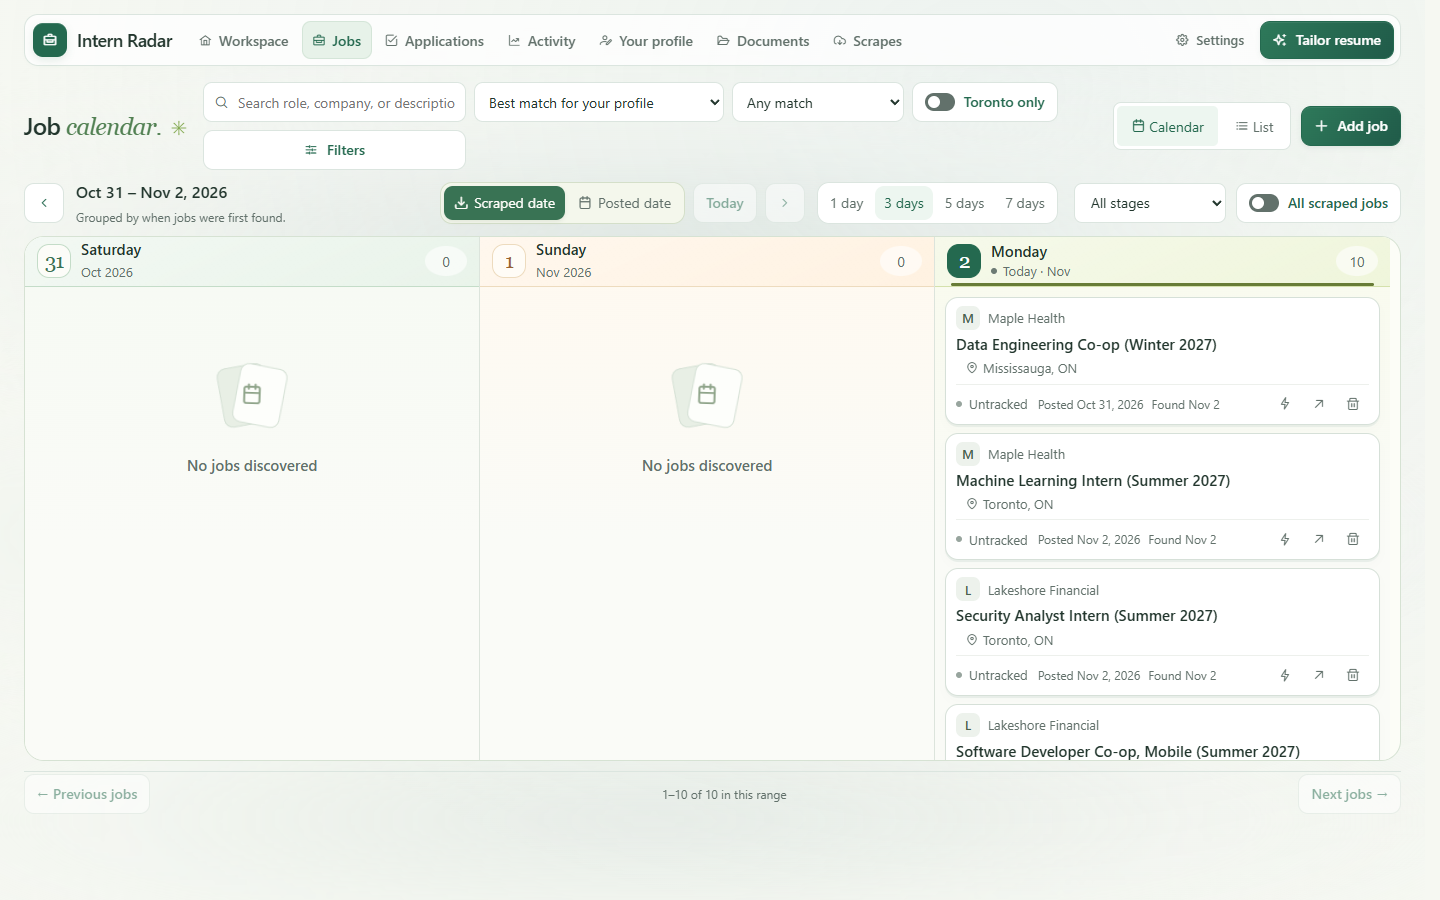
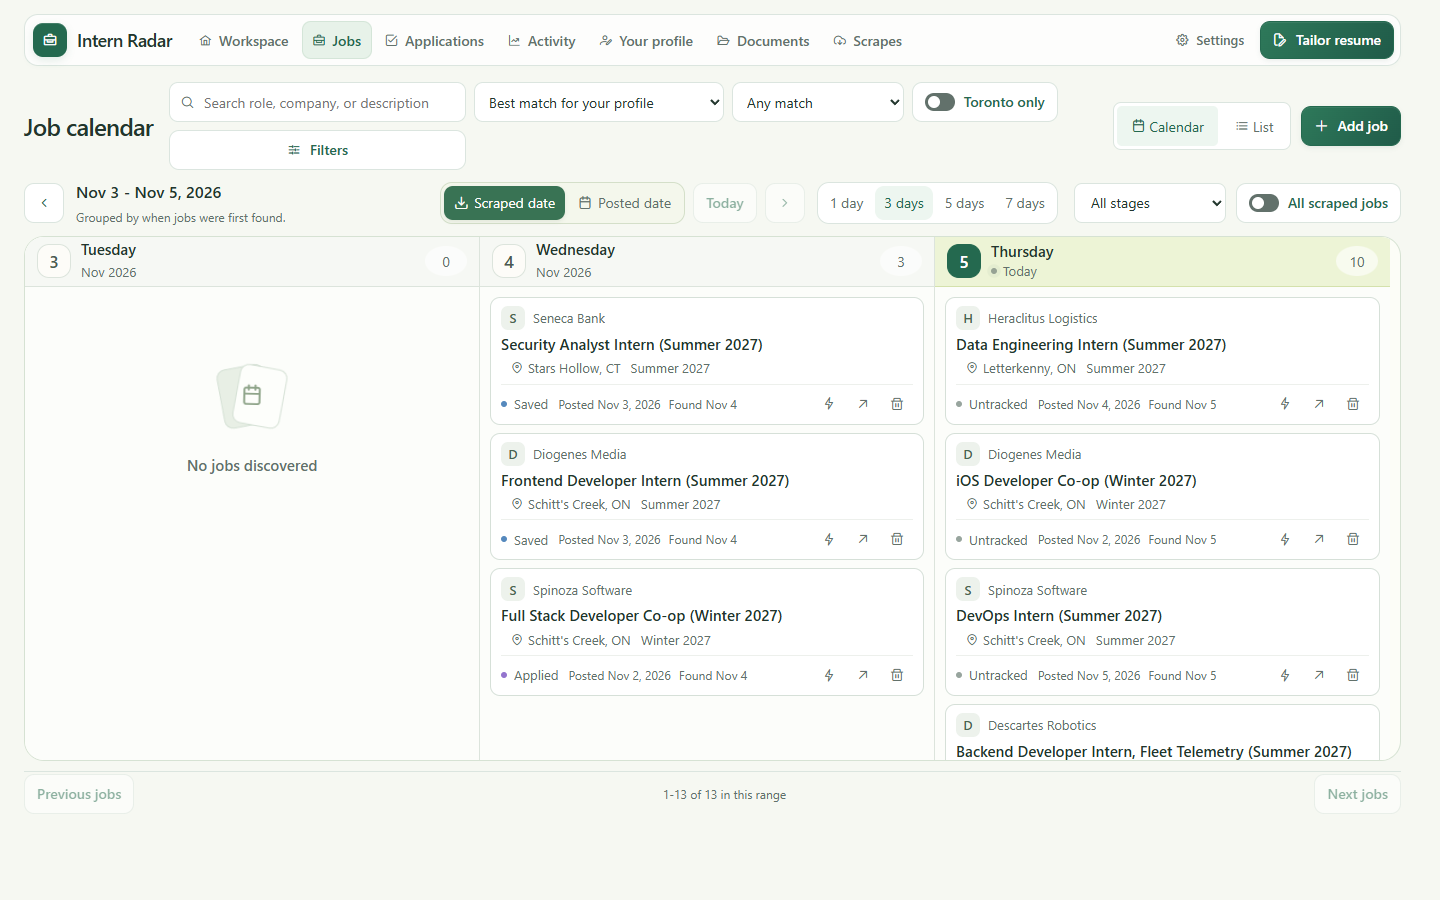
diagrams: startup and worker loop tags cleaned up

diff --git a/frontend/src/app/tailor/ai-output/ai-output.ts b/frontend/src/app/tailor/ai-output/ai-output.ts
@@ -1,1 +1,36 @@
 import { DatePipe } from '@angular/common';
+import { ChangeDetectionStrategy, Component, computed, input } from '@angular/core';
+import type { OutputLabels } from '../models/ai-output.models';
+import type { TailoringEvent } from '../models/document.models';
+import { outputKind, outputView, reasoningParagraphs } from './ai-output-view';
+
+const omittedPrefix = '[Earlier output omitted from console]';
+
+@Component({
+  selector: 'app-ai-output',
+  changeDetection: ChangeDetectionStrategy.OnPush,
+  imports: [DatePipe],
+  templateUrl: './ai-output.html',
+  styleUrl: './ai-output.scss',
+})
+export class AiOutput {
+  readonly event = input.required<TailoringEvent>();
+  readonly active = input(false);
+  readonly labels = input<OutputLabels>({ experience: [] });
+  protected readonly view = computed(() =>
+    outputView(this.event().output_schema, this.event().output ?? '', this.labels()),
+  );
+  protected readonly kind = computed(() =>
+    outputKind(this.view()?.schema ?? this.event().output_schema, this.event().message),
+  );
+  protected readonly thinking = computed(() => reasoningParagraphs(this.event().reasoning ?? ''));
+  protected readonly state = computed((): 'writing' | 'done' | 'stopped' => {
+    if (this.view()?.complete) {
+      return 'done';
+    }
+    if (this.active()) {
+      return 'writing';
+    }
+    return this.event().output?.startsWith(omittedPrefix) ? 'done' : 'stopped';
+  });
+}

diff --git a/backend/src/job_backend/scrape/pipeline/targeting.py b/backend/src/job_backend/scrape/pipeline/targeting.py
@@ -1,1 +1,34 @@
 from pydantic import JsonValue
+
+from job_backend.scrape.pipeline.heuristics.constants import LOCATION_FIELDS
+from job_backend.scrape.pipeline.heuristics.parsing import (
+    location_values,
+    object_value,
+    read_record,
+)
+from job_backend.scrape.pipeline.heuristics.targeting import listing_is_candidate
+from job_backend.scrape.pipeline.models import RawDocument
+
+
+def document_is_candidate(document: RawDocument) -> bool:
+    try:
+        envelope = read_record(document)
+    except ValueError:
+        return True
+    row = object_value(envelope.get("job")) or envelope
+    metadata: dict[str, JsonValue] = dict(document.listing_data)
+    metadata.update({key: value for key, value in row.items() if value is not None})
+    categories = object_value(metadata.get("categories"))
+    locations = location_values(
+        metadata.get("locations")
+        or metadata.get("location")
+        or categories.get("location")
+        or metadata.get("jobLocation"),
+        postal_address=object_value(metadata.get("address")).get("postalAddress"),
+    )
+    locations += location_values(metadata.get("secondaryLocations"))
+    locations += location_values(metadata.get("applicantLocationRequirements"))
+    for key in LOCATION_FIELDS:
+        metadata.pop(key, None)
+    metadata["locations"] = list(locations)
+    return listing_is_candidate(metadata, complete=True)
